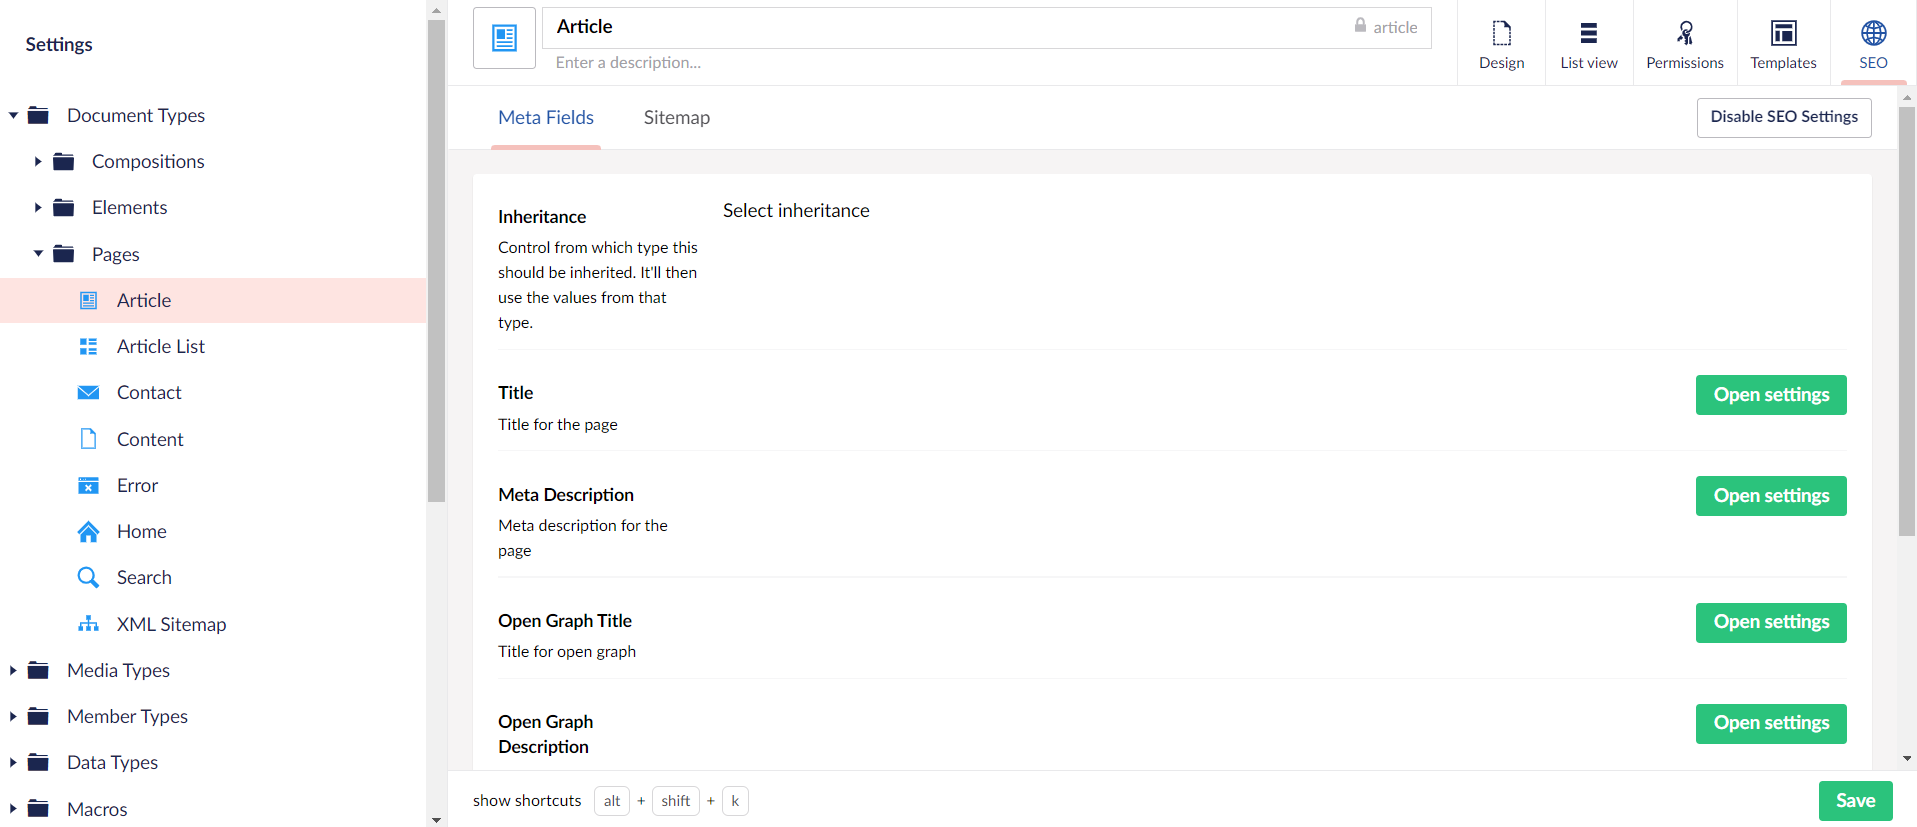
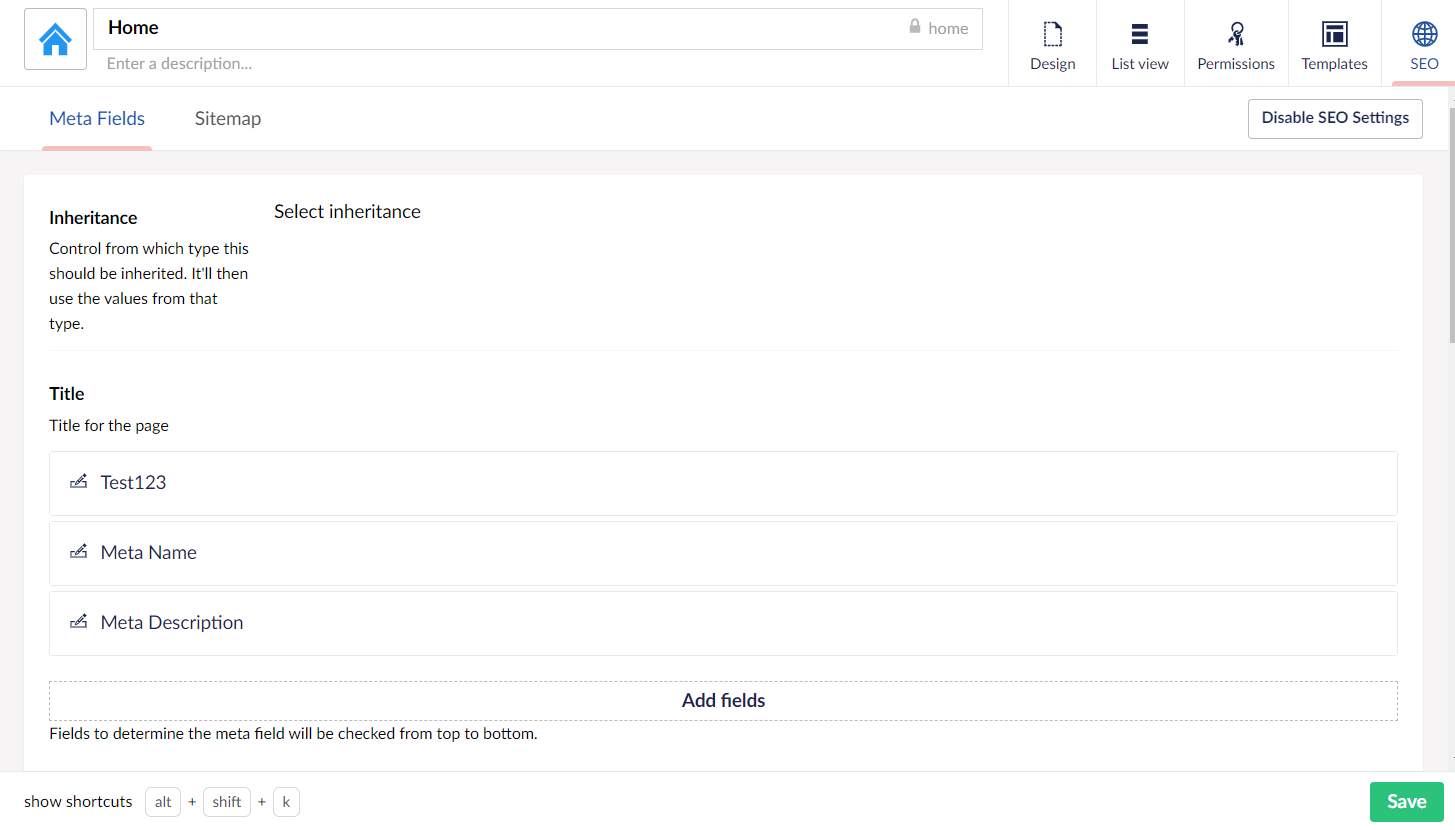
Fix inheritance with the new interface

diff --git a/src/SeoToolkit.Umbraco.MetaFields/App_Plugins/SeoToolkit/MetaFields/Interface/ContentApps/DocumentSettings/documentSettings.html b/src/SeoToolkit.Umbraco.MetaFields/App_Plugins/SeoToolkit/MetaFields/Interface/ContentApps/DocumentSettings/documentSettings.html
@@ -18,23 +18,20 @@
         <div class="umb-el-wrap">
             <div class="control-header">
                 <label class="control-label">{{field.title}}</label>
+                <div style="float: right;">
+                    <a class="btn" ng-click="vm.toggleUseInheritedValue(field, false)" ng-if="field.useInheritedValue">Override</a>
+                    <a class="btn" ng-click="vm.toggleUseInheritedValue(field, true)" ng-if="!field.useInheritedValue && vm.model.inheritance != null">Use inherited</a>
+                </div>
                 <small class="control-description">
                     {{field.description}}
                 </small>
             </div>
-            <div class="controls" ng-include="field.editor.view">
-
-
-                <!--
-                <span ng-if="!field.useInheritedValue">{{vm.formatFieldValue(field)}}</span>
-                <b ng-if="field.useInheritedValue">Inherited value</b>
-
-                <div style="float: right;">
-                    <a class="btn btn-success" ng-click="vm.openSettingDialog(field)" ng-if="!field.useInheritedValue">Open settings</a>
-                    <a class="btn" ng-click="vm.toggleUseInheritedValue(field, false)" ng-if="field.useInheritedValue">Override</a>
-                    <a class="btn" ng-click="vm.toggleUseInheritedValue(field, true)" ng-if="!field.useInheritedValue && vm.model.inheritance != null">Use inherited</a>
-                </div>
-                    -->
+            <div class="controls" ng-if="!field.useInheritedValue">
+                <seo-field-editor field="field" has-inheritance="vm.model.inheritance != null"></seo-field-editor>
+            </div>
+            <div class="alert alert-info flex items-center" role="alert" ng-if="field.useInheritedValue">
+                <umb-icon icon="icon-info" class="medium mr2"></umb-icon>
+                <span>This field uses the value of the inherited component.</span>
             </div>
         </div>
     </div>

diff --git a/src/SeoToolkit.Umbraco.MetaFields/App_Plugins/SeoToolkit/MetaFields/Interface/SeoFieldEditors/seoFieldEditor.directive.js b/src/SeoToolkit.Umbraco.MetaFields/App_Plugins/SeoToolkit/MetaFields/Interface/SeoFieldEditors/seoFieldEditor.directive.js
@@ -1,0 +1,17 @@
+angular.module("umbraco.directives")
+    .directive('seoFieldEditor', function () {
+        return {
+            restrict: 'E',
+            template: '<ng-include src="getTemplateUrl()"/>',
+            scope: {
+                field: '=',
+                hasInheritance: '<'
+            },
+            controller: function ($scope) {
+                //function used on the ng-include to resolve the template
+                $scope.getTemplateUrl = function () {
+                    return $scope.field.editor.view;
+                }
+            }
+        }
+    });

diff --git a/src/SeoToolkit.Umbraco.MetaFields/App_Plugins/SeoToolkit/MetaFields/Interface/SeoFieldEditors/FieldsEditor/fieldsEditor.controller.js b/src/SeoToolkit.Umbraco.MetaFields/App_Plugins/SeoToolkit/MetaFields/Interface/SeoFieldEditors/FieldsEditor/fieldsEditor.controller.js
@@ -5,8 +5,6 @@
 
         var vm = this;
 
-        console.log($scope.field);
-
         //TODO: Check if inheritance works as expected
         vm.field = $scope.field;
         vm.hasInheritance = $scope.hasInheritance;
